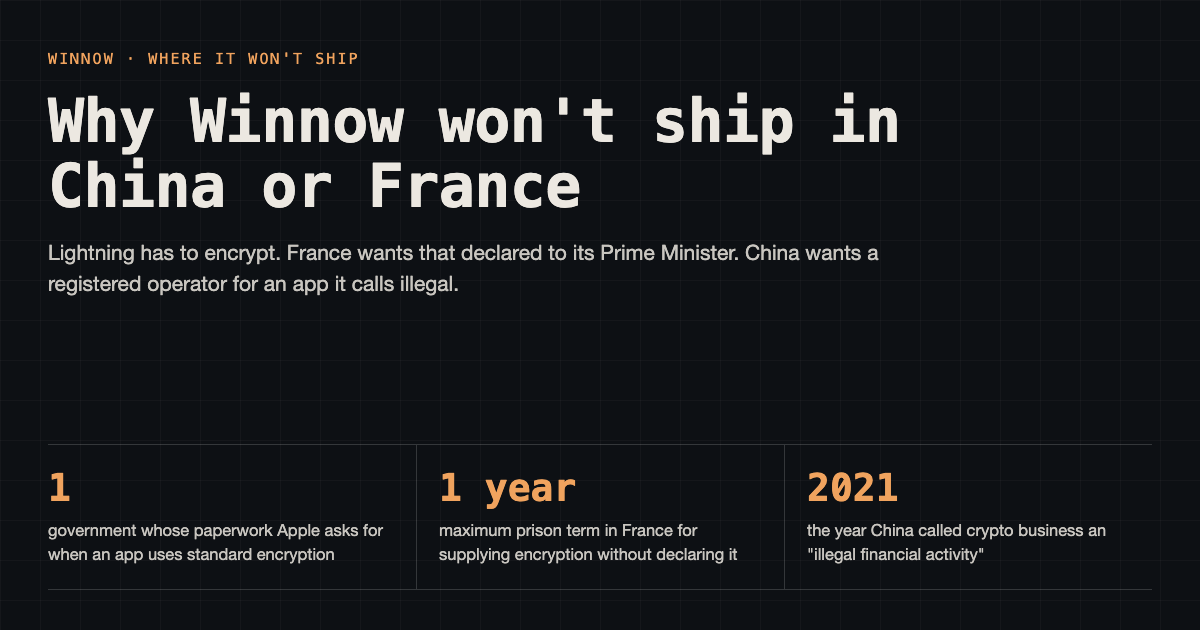
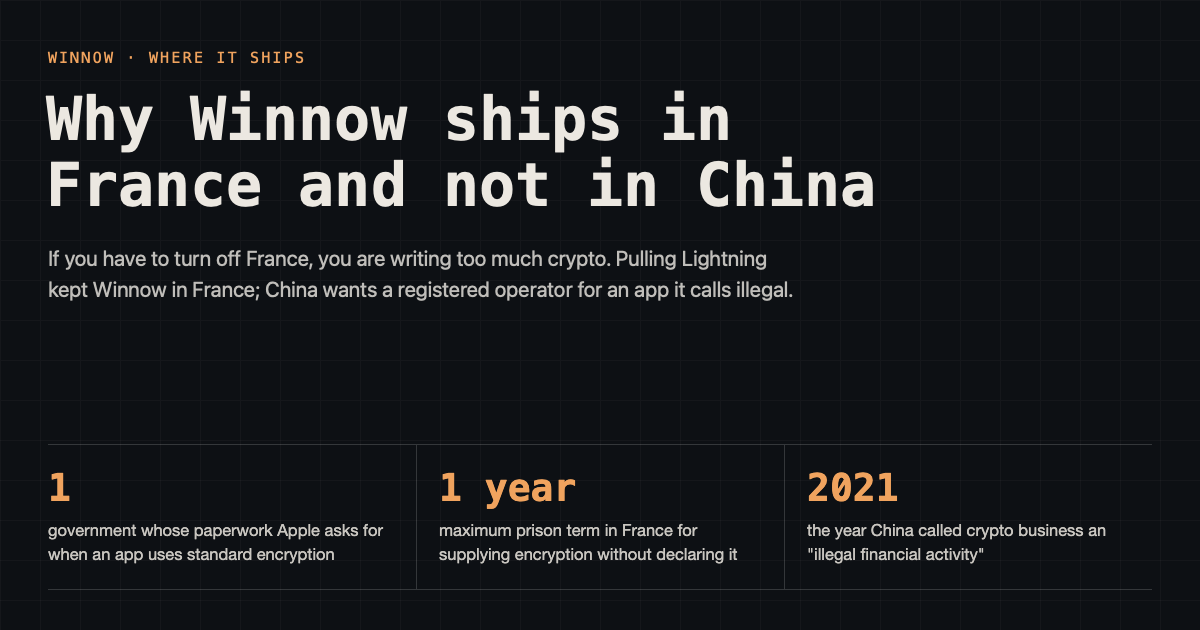
Update China and France post: pulling Lightning kept Winnow in France

diff --git a/docs/blog/not-in-china-or-france/index.html b/docs/blog/not-in-china-or-france/index.html
@@ -3,20 +3,20 @@
 <head>
     <meta charset="UTF-8">
     <meta name="viewport" content="width=device-width, initial-scale=1.0">
-    <title>Why Winnow Won&#39;t Ship in China or France — Winnow</title>
-    <meta name="description" content="Lightning has to encrypt. France wants that declared to its Prime Minister, and China wants a registered operator for an app it calls illegal. Winnow will ship to neither.">
+    <title>Why Winnow Ships in France and Not in China — Winnow</title>
+    <meta name="description" content="If you have to turn off France, you are writing too much crypto. Pulling Lightning kept Winnow in France; China wants a registered operator for an app it calls illegal.">
     <link rel="canonical" href="https://winnowwallet.com/blog/not-in-china-or-france/">
     <link rel="alternate" type="application/rss+xml" title="Winnow blog" href="https://winnowwallet.com/blog/feed.xml">
     <meta property="og:type" content="article">
     <meta property="og:site_name" content="Winnow">
-    <meta property="og:title" content="Why Winnow Won't Ship in China or France — Winnow">
-    <meta property="og:description" content="Lightning has to encrypt. France wants that declared to its Prime Minister, and China wants a registered operator for an app it calls illegal. Winnow will ship to neither.">
+    <meta property="og:title" content="Why Winnow Ships in France and Not in China — Winnow">
+    <meta property="og:description" content="If you have to turn off France, you are writing too much crypto. Pulling Lightning kept Winnow in France; China wants a registered operator for an app it calls illegal.">
     <meta property="og:url" content="https://winnowwallet.com/blog/not-in-china-or-france/">
     <meta property="og:image" content="https://winnowwallet.com/images/blog/not-in-china-or-france/share-card.png">
     <meta property="article:published_time" content="2026-10-01T14:19:00.000Z">
     <meta name="twitter:card" content="summary_large_image">
-    <meta name="twitter:title" content="Why Winnow Won't Ship in China or France — Winnow">
-    <meta name="twitter:description" content="Lightning has to encrypt. France wants that declared to its Prime Minister, and China wants a registered operator for an app it calls illegal. Winnow will ship to neither.">
+    <meta name="twitter:title" content="Why Winnow Ships in France and Not in China — Winnow">
+    <meta name="twitter:description" content="If you have to turn off France, you are writing too much crypto. Pulling Lightning kept Winnow in France; China wants a registered operator for an app it calls illegal.">
     <meta name="twitter:image" content="https://winnowwallet.com/images/blog/not-in-china-or-france/share-card.png">
     <link rel="stylesheet" href="/blog/article.css">
     <style>
@@ -56,18 +56,18 @@
         <article class="article-card">
             <header class="article-header">
                 <p class="eyebrow"><a href="/blog/">Winnow blog</a></p>
-                <h1>Why Winnow Won&#39;t Ship in China or France</h1>
-                <p class="article-subtitle">Lightning has to encrypt. France wants that declared to its Prime Minister, and China wants a registered operator for an app it calls illegal. Winnow will ship to neither.</p>
+                <h1>Why Winnow Ships in France and Not in China</h1>
+                <p class="article-subtitle">If you have to turn off France, you are writing too much crypto. Pulling Lightning kept Winnow in France; China wants a registered operator for an app it calls illegal.</p>
                 <div class="article-byline">
                     <span class="author-mark" aria-hidden="true">AN</span>
-                    <p><strong>Alex Newman</strong><span><time datetime="2026-10-01T14:19:00.000Z">October 1, 2026</time> · 4 min read</span></p>
+                    <p><strong>Alex Newman</strong><span><time datetime="2026-10-01T14:19:00.000Z">October 1, 2026</time> · 5 min read</span></p>
                 </div>
             </header>
             <div class="article-content">
 <p>On October 1 the first build of Winnow with Lightning, 0.8.0, sat in TestFlight marked Missing Compliance. Nobody could install it, me included. Apple wanted a document from the French government.</p>
-<p>I turned France off, and the build cleared without any document. China is off too, for different reasons. Neither is coming back while the rules stand, and this is why.</p>
+<p>I turned France off in TestFlight, and the build cleared without any document. Six days later <a href="/blog/why-lightning-is-leaving-winnow/">I pulled Lightning from Winnow</a> before 0.8.0 ever shipped, so we never turned France off on the App Store. Looking back, having to pull France was a smell: if you have to turn off France, you are writing too much crypto. China is off for different reasons, and stays off.</p>
 <h2>The paperwork Apple asked for</h2>
-<p>Lightning encrypts, and it has to. Every channel runs over an encrypted, authenticated connection to its peer, and every payment travels as an onion: layers of ChaCha20 that each node on the route peels one at a time, so no node learns more than its neighbors. Without it, the route would learn who paid whom. It is not a feature I can switch off.</p>
+<p>Lightning encrypts, and it has to. Every channel runs over an encrypted, authenticated connection to its peer, and every payment travels as an onion: layers of ChaCha20 that each node on the route peels one at a time, so no node learns more than its neighbors. Without it, the route would learn who paid whom. It is not a feature a Lightning node can switch off.</p>
 <p>Apple sorts encryption into three bins (<a href="https://developer.apple.com/help/app-store-connect/reference/app-information/export-compliance-documentation-for-encryption">Apple&#39;s table</a>):</p>
 <table>
 <thead>
@@ -89,23 +89,28 @@
 <td>A US export classification, plus the French declaration if sold in France</td>
 </tr>
 </tbody></table>
-<p>Winnow is in the middle row. Its algorithms are public standards (secp256k1, SHA-256, HKDF, ChaCha20-Poly1305, AES-GCM), and some of them run in Winnow&#39;s own code and a third-party library rather than in iOS. For an app like that, the only government whose paperwork Apple asks for is France&#39;s.</p>
+<p>Lightning put Winnow in the middle row. Its algorithms are public standards (secp256k1, SHA-256, HKDF, ChaCha20-Poly1305), and the Lightning code ran its transport and onion encryption in Winnow&#39;s own Swift rather than through iOS. For an app like that, the only government whose paperwork Apple asks for is France&#39;s.</p>
 <p>The document is an attestation from ANSSI, France&#39;s national cybersecurity agency. <a href="https://www.legifrance.gouv.fr/codes/section_lc/JORFTEXT000000801164/LEGISCTA000006117690/">Article 30</a> of France&#39;s 2004 digital economy law opens with a sentence I like: &quot;L&#39;utilisation des moyens de cryptologie est libre.&quot; Using encryption is free. The next sentence takes it back from anyone who hands encryption to someone else. Supplying a means of cryptology that does more than authenticate requires a prior declaration to the Prime Minister, and the supplier must keep a description of its technical characteristics, and its source code, at the Prime Minister&#39;s disposal. <a href="https://www.legifrance.gouv.fr/loda/article_lc/LEGIARTI000006421583">Article 35</a> makes failing to declare punishable by a year in prison and a €15,000 fine. ANSSI <a href="https://cyber.gouv.fr/controle-reglementaire-sur-la-cryptographie-demarches-accomplir">answers a complete declaration within a month</a>.</p>
 <p>That would have been a month with no TestFlight for any tester, in any country, to get a letter for one of them.</p>
 <h2>Why I didn&#39;t just file</h2>
 <p>I could have. Plenty of companies do. Three things stopped me.</p>
 <p><strong>There is nothing to disclose.</strong> The algorithms are published standards. Winnow is <a href="https://github.com/winnowwallet/winnow">MIT licensed on GitHub</a>. The source code the law asks me to hold for the Prime Minister is already held for everyone. A declaration would tell the French state nothing it can&#39;t read today. What it adds is the idea that shipping public math needs the state&#39;s leave, with prison for not filing.</p>
 <p><strong>It is the wrong first move for this app.</strong> A self-custody wallet makes one promise: nobody stands between you and your money. Asking the Prime Minister&#39;s office for leave before I may hand anyone that promise sets the wrong precedent.</p>
-<p><strong>France already knows the answer.</strong> Until 1999, France required authorization for encryption stronger than 40 bits. That year Lionel Jospin&#39;s government <a href="https://www.droit-technologie.org/actualites/cryptographie-la-france-sur-la-voie-de-la-liberalisation/">raised the free threshold to 128 bits and replaced authorization with declaration</a>, and the 2004 law made use free outright. The declaration is what is left of the old system. I hope France finishes the job. Until it does, Winnow waits at the border.</p>
+<p><strong>France already knows the answer.</strong> Until 1999, France required authorization for encryption stronger than 40 bits. That year Lionel Jospin&#39;s government <a href="https://www.droit-technologie.org/actualites/cryptographie-la-france-sur-la-voie-de-la-liberalisation/">raised the free threshold to 128 bits and replaced authorization with declaration</a>, and the 2004 law made use free outright. The declaration is what is left of the old system. I hope France finishes the job.</p>
+<h2>If you have to pull France, you are writing too much crypto</h2>
+<p>Turning France off got build 0.8.0 into TestFlight, and it was a warning sign I should have read sooner.</p>
+<p>An on-chain Bitcoin wallet does not encrypt the network. Bitcoin transactions, blocks, and compact filters are public data. What the wallet has to supply outside iOS is hashing and digital signatures (SHA-256 and secp256k1), which authenticate and check integrity; they do not hide anything. Even France&#39;s Article 30 exempts cryptography that only authenticates or checks integrity. Where Winnow does encrypt, for the Keychain, iCloud recovery, and system HTTPS connections, it uses the encryption built into iOS. That is the top row of Apple&#39;s table: nothing to file.</p>
+<p>Winnow only landed in the middle row because I had written a Lightning implementation in Swift inside the app, and with it my own transport and onion encryption outside iOS. That was the same lesson <a href="/blog/tailscale-workaround-tor-i2p/">Tor taught me</a> the day before, and the one <a href="/blog/why-lightning-is-leaving-winnow/">Lightning taught me</a> six days later. Embedding Tor meant carrying a 400-crate Rust networking stack inside the wallet; moving Tor to a SOCKS gateway let Winnow stay a Bitcoin client. Embedding a custom Lightning engine meant carrying peer encryption, onion routing, and channel-closing machinery inside the on-chain app.</p>
+<p>Needing an export-compliance exemption was an architectural smell. If you have to pull France, you are writing too much crypto. When I pulled Lightning out of Winnow, the custom encryption left with it. We never shipped Lightning, so we never turned France off.</p>
 <h2>China</h2>
-<p>China is not a form I can fill in.</p>
+<p>China is not a form I can fill in, and it does not depend on how much cryptography the app writes.</p>
 <p>Since the Ministry of Industry and Information Technology&#39;s August 2023 notice, every app in mainland China that connects to the internet needs an ICP filing number. The filing puts the operator&#39;s identity and the app&#39;s domains on record with the ministry, and app stores must remove apps that lack one (<a href="https://techinsights.linklaters.com/post/102j72l/china-the-new-app-filing-regime-keeps-mobile-apps-under-tight-scrutiny">Linklaters</a>). A foreign developer can file only through a Chinese company or a local publisher. Separately, on September 24, 2021, ten agencies led by the People&#39;s Bank of China declared crypto business &quot;illegal financial activities&quot; (<a href="https://www.china-briefing.com/news/china-makes-cryptocurrency-transactions-illegal-an-explainer/">China Briefing</a>).</p>
 <p>So Winnow in China would need a state-registered Chinese operator for an app whose core function the state calls illegal. There is no form for that. There is only a different app, and I won&#39;t build it.</p>
 <h2>If you live there</h2>
-<p>French law says using encryption is free; supplying it is what needs the declaration. Winnow&#39;s source is public, and you can build it yourself. If you already have Winnow from the French App Store, you keep the version you have, but 0.8.0 and later won&#39;t reach you through it. I am a programmer, not a lawyer, so take none of this as legal advice.</p>
+<p>If you live in France, Winnow is on the French App Store and updates normally. Because Lightning came out before 0.8.0 shipped, France never had to be turned off on the shipping app. When I build a separate Lightning wallet later, France&#39;s Article 30 declaration will be waiting for that app unless the law changes first. I am a programmer, not a lawyer, so take none of this as legal advice.</p>
 <p>Winnow is not on the App Store in mainland China, and it won&#39;t be.</p>
 <h2>What would change my mind</h2>
-<p>For France, one change: supplying standard, public encryption without a declaration, the step after 1999 and 2004. For China, both the crypto ban and real-name app filing would have to go. I&#39;m not holding my breath for the second.</p>
+<p>For China, both the crypto ban and real-name app filing would have to go before Winnow could ship there. For a future Lightning wallet in France, one change would settle it: supplying standard, public encryption without a declaration, the step after 1999 and 2004. Until then, keeping Winnow focused on on-chain Bitcoin keeps it out of the Prime Minister&#39;s inbox.</p>
 
             </div>
         </article>

diff --git a/docs/blog/index.html b/docs/blog/index.html
@@ -1,1 +1,1 @@
-<!doctype html><html lang="en"><head><meta charset="utf-8"><meta name="viewport" content="width=device-width,initial-scale=1"><title>Blog — Winnow</title><meta name="description" content="Wallet engineering and field reports by Alex Newman."><link rel="canonical" href="https://winnowwallet.com/blog/"><link rel="alternate" type="application/rss+xml" title="Winnow blog" href="/blog/feed.xml"><link rel="stylesheet" href="/blog/article.css"></head><body class="blog-body"><nav><div class="nav-container"><a href="/" class="logo">winnow</a><ul class="nav-links"><li><a href="/">Wallet</a></li><li><a href="/blog/" aria-current="page">Blog</a></li><li><a href="https://compare.winnowwallet.com/">Compare</a></li></ul></div></nav><main class="blog-main"><header class="blog-intro"><p class="eyebrow">Winnow blog</p><h1>Building a wallet you can inspect.</h1><p>Wallet engineering and field reports by Alex Newman.</p><a class="feed-link" href="/blog/feed.xml">RSS feed</a></header><section class="post-list" aria-label="Articles"><article class="post-preview"><div class="post-preview-copy"><time datetime="2026-10-20T21:57:26.000Z">2026-10-20</time><h2><a href="/blog/bitcoin-beyond-conspiracy-theories/">Bitcoin Beyond Conspiracy Theories</a></h2><p>The NIST seeds' real origin, the odd thing about Bitcoin's generator, what it costs Bitcoin to have its own curve, and the Swift curve code that signed my first mainnet payments.</p><a class="read-more" href="/blog/bitcoin-beyond-conspiracy-theories/">Read article →</a></div></article><article class="post-preview"><div class="post-preview-copy"><time datetime="2026-10-07T15:48:00.000Z">2026-10-07</time><h2><a href="/blog/why-lightning-is-leaving-winnow/">Why Lightning Is Leaving Winnow</a></h2><p>I added it, then took it out. The next Lightning wallet will start with a different foundation.</p><a class="read-more" href="/blog/why-lightning-is-leaving-winnow/">Read article →</a></div></article><article class="post-preview"><div class="post-preview-copy"><time datetime="2026-10-01T14:19:00.000Z">2026-10-01</time><h2><a href="/blog/not-in-china-or-france/">Why Winnow Won&#x27;t Ship in China or France</a></h2><p>Lightning has to encrypt. France wants that declared to its Prime Minister, and China wants a registered operator for an app it calls illegal. Winnow will ship to neither.</p><a class="read-more" href="/blog/not-in-china-or-france/">Read article →</a></div></article><article class="post-preview"><div class="post-preview-copy"><time datetime="2026-09-30T13:40:00.000Z">2026-09-30</time><h2><a href="/blog/tailscale-workaround-tor-i2p/">A Tailscale Workaround for Tor and I2P</a></h2><p>Winnow still does not bundle Tor or I2P. This is how it reaches them anyway, through gateways you run yourself, and how to build those gateways.</p><a class="read-more" href="/blog/tailscale-workaround-tor-i2p/">Read article →</a></div></article><article class="post-preview"><div class="post-preview-copy"><time datetime="2026-09-04T22:00:00.000Z">2026-09-04</time><h2><a href="/blog/dead-chain-peers/">One in Twelve Peers Is on a Dead Chain</a></h2><p>A stalled mainnet test, a dead fork, and a census of every reachable Bitcoin node</p><a class="read-more" href="/blog/dead-chain-peers/">Read article →</a></div></article></section></main><footer><p><a href="/">Winnow Wallet</a></p></footer></body></html>
+<!doctype html><html lang="en"><head><meta charset="utf-8"><meta name="viewport" content="width=device-width,initial-scale=1"><title>Blog — Winnow</title><meta name="description" content="Wallet engineering and field reports by Alex Newman."><link rel="canonical" href="https://winnowwallet.com/blog/"><link rel="alternate" type="application/rss+xml" title="Winnow blog" href="/blog/feed.xml"><link rel="stylesheet" href="/blog/article.css"></head><body class="blog-body"><nav><div class="nav-container"><a href="/" class="logo">winnow</a><ul class="nav-links"><li><a href="/">Wallet</a></li><li><a href="/blog/" aria-current="page">Blog</a></li><li><a href="https://compare.winnowwallet.com/">Compare</a></li></ul></div></nav><main class="blog-main"><header class="blog-intro"><p class="eyebrow">Winnow blog</p><h1>Building a wallet you can inspect.</h1><p>Wallet engineering and field reports by Alex Newman.</p><a class="feed-link" href="/blog/feed.xml">RSS feed</a></header><section class="post-list" aria-label="Articles"><article class="post-preview"><div class="post-preview-copy"><time datetime="2026-10-20T21:57:26.000Z">2026-10-20</time><h2><a href="/blog/bitcoin-beyond-conspiracy-theories/">Bitcoin Beyond Conspiracy Theories</a></h2><p>The NIST seeds' real origin, the odd thing about Bitcoin's generator, what it costs Bitcoin to have its own curve, and the Swift curve code that signed my first mainnet payments.</p><a class="read-more" href="/blog/bitcoin-beyond-conspiracy-theories/">Read article →</a></div></article><article class="post-preview"><div class="post-preview-copy"><time datetime="2026-10-07T15:48:00.000Z">2026-10-07</time><h2><a href="/blog/why-lightning-is-leaving-winnow/">Why Lightning Is Leaving Winnow</a></h2><p>I added it, then took it out. The next Lightning wallet will start with a different foundation.</p><a class="read-more" href="/blog/why-lightning-is-leaving-winnow/">Read article →</a></div></article><article class="post-preview"><div class="post-preview-copy"><time datetime="2026-10-01T14:19:00.000Z">2026-10-01</time><h2><a href="/blog/not-in-china-or-france/">Why Winnow Ships in France and Not in China</a></h2><p>If you have to turn off France, you are writing too much crypto. Pulling Lightning kept Winnow in France; China wants a registered operator for an app it calls illegal.</p><a class="read-more" href="/blog/not-in-china-or-france/">Read article →</a></div></article><article class="post-preview"><div class="post-preview-copy"><time datetime="2026-09-30T13:40:00.000Z">2026-09-30</time><h2><a href="/blog/tailscale-workaround-tor-i2p/">A Tailscale Workaround for Tor and I2P</a></h2><p>Winnow still does not bundle Tor or I2P. This is how it reaches them anyway, through gateways you run yourself, and how to build those gateways.</p><a class="read-more" href="/blog/tailscale-workaround-tor-i2p/">Read article →</a></div></article><article class="post-preview"><div class="post-preview-copy"><time datetime="2026-09-04T22:00:00.000Z">2026-09-04</time><h2><a href="/blog/dead-chain-peers/">One in Twelve Peers Is on a Dead Chain</a></h2><p>A stalled mainnet test, a dead fork, and a census of every reachable Bitcoin node</p><a class="read-more" href="/blog/dead-chain-peers/">Read article →</a></div></article></section></main><footer><p><a href="/">Winnow Wallet</a></p></footer></body></html>
